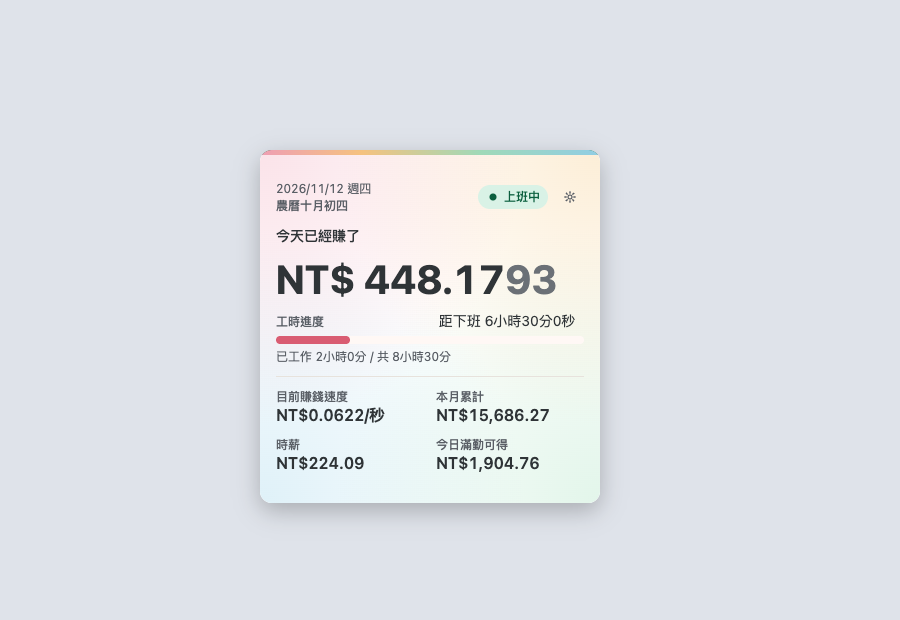
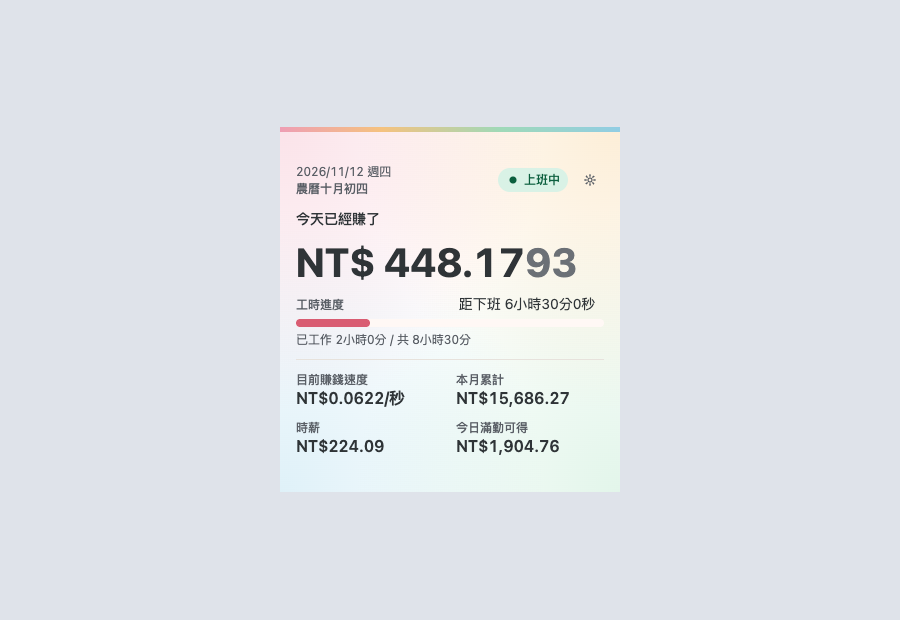
docs: refresh README screenshots and demo GIF, add calendar screenshot
Re-captured the floating mini window, settings page, and demo GIF from
the current build (Taiwan default, 2026-11-12 Asia/Taipei). The GIF now
plays 10:30 through 18:05. Added a calendar screenshot and updated the
captions to match the new images.

Changed region(s): [[0.28, 0.1839, 0.7156, 0.7968], [0.28, 0.7968, 0.6533, 0.8274]]

diff --git a/README.md b/README.md
@@ -6,7 +6,7 @@
 
 ![懸浮小窗示範](docs/images/pip-demo.gif)
 
-> 小窗動圖的時間分別為 2026-11-12 09:00、10:30、15:00、18:05（臺北時間），以預設月薪 NT$40,000、上下班 08:30–17:00 計算。小窗以模擬方式呈現在空白背景上，並非作業系統的原生視窗；實際數字依你的設定與當下時間而定。
+> 小窗動圖從 2026-11-12 10:30 播放到 18:05（臺北時間），以預設月薪 NT$40,000、上下班 08:30–17:00 計算，下班後顯示收工訊息。小窗以模擬方式呈現在空白背景上，並非作業系統的原生視窗；實際數字依你的設定與當下時間而定。
 
 ## 功能
 
@@ -22,6 +22,10 @@
 > 示範時間為 2026-11-12 10:30（臺北時間，上班中），數字依預設月薪 NT$40,000 計算。大視窗僅用於設定，見下方設定頁截圖。
 
 ![設定頁](docs/images/settings.png)
+
+![月曆](docs/images/calendar.png)
+
+> 月曆以 2026 年 11 月為例：點選日期即可標記補班、有薪假或無薪假，並可看到當月應出勤天數與日薪。
 
 ## 快速開始
 
